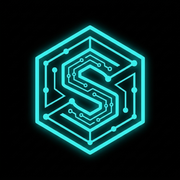
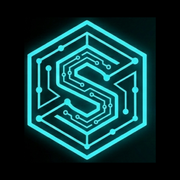
## SERTEX amblemi ana ikon & amblem olarak uygulandı ✅ (web + mobil)
Yüklediğiniz altıgen "S" amblemini banner'dan kare olarak kırptım (wordmark hariç), hem siyah zeminli ikon hem de şeffaf arka planlı "amblem işareti" ürettim.

**Web** (`frontend/public`): favicon.png/.ico, apple-touch-icon, logo192/512 (tarayıcı sekmesi + PWA/ana ekran ikonu) amblemle değiştirildi. Ayrıca **giriş ekranı** ve **açılış (boot) ekranına** amblem eklendi — ekran görüntüsüyle doğrulandı.

**Mobil** (`mobile/assets/images`): app icon (`icon.png`), Android adaptive-icon, web favicon amblemle; **splash** tam SERTEX banner'ı oldu; uygulama içi başlık (login + tüm sekmeler) artık amblemi gösteriyor — ekran görüntüsüyle doğrulandı.

⚠ Önemli notlar:
- Tarayıcı favicon'u sert cache'lenir → görmüyorsanız **hard refresh** (Ctrl+Shift+R).
- **Mobil app icon ve splash yalnızca gerçek iOS/Android build'de (Publish) tam yansır**; Expo Go/önizlemede eski ikon görünebilir.
- Değişiklikler preview'de; web canlı (sertex-ai.com) için **Deploy**, mobil için yeni **Publish** gerekir.

Testing agent kullanmadım; bu görsel/asset değişikliği olduğu için her iki yüzeyde screenshot ile doğruladım.

- Next Action Items:
  - **Yayına Al**: Yeni amblemin canlıda ve telefonda görünmesi için web'i Deploy edip mobil için yeni bir Publish/build al
  - **Gecikmiş Görevler**: Yöneticiye tüm geciken görevleri gösterip toplu hatırlatma gönderten bir panel ekle
  - **Süper Yönetici Notu**: Süreli super_admin verirken "neden/not" alanı ekle ki kim niçin yetkilendirildi kayda geçsin
[…]

diff --git a/mobile/src/components/HudHeader.tsx b/mobile/src/components/HudHeader.tsx
@@ -2,6 +2,7 @@
 // holographic sphere. A small glowing cyan orb keeps the brand feel without
 // any per-frame animation cost on device.
 
+import { Image } from "expo-image";
 import { StyleSheet, Text, View } from "react-native";
 
 import { colors, monoFont, spacing } from "@/src/theme/colors";
@@ -17,7 +18,12 @@ export const HudHeader = ({ subtitle, right }: Props) => {
       <View style={styles.left}>
         <View style={styles.orbWrap}>
           <View style={styles.orbGlow} />
-          <View style={styles.orb} />
+          <Image
+            source={require("../../assets/images/emblem-mark.png")}
+            style={styles.emblem}
+            contentFit="contain"
+            testID="brand-emblem"
+          />
         </View>
         <View>
           <Text style={styles.brand}>SERTEX</Text>
@@ -39,26 +45,22 @@ const styles = StyleSheet.create({
   },
   left: { flexDirection: "row", alignItems: "center", gap: spacing.md },
   orbWrap: {
-    width: 34,
-    height: 34,
+    width: 40,
+    height: 40,
     alignItems: "center",
     justifyContent: "center",
   },
   orbGlow: {
     position: "absolute",
-    width: 34,
-    height: 34,
-    borderRadius: 17,
+    width: 40,
+    height: 40,
+    borderRadius: 20,
     backgroundColor: colors.glow,
-    opacity: 0.55,
+    opacity: 0.35,
   },
-  orb: {
-    width: 18,
-    height: 18,
-    borderRadius: 9,
-    backgroundColor: colors.primary,
-    borderWidth: 2,
-    borderColor: "rgba(226, 241, 255, 0.6)",
+  emblem: {
+    width: 40,
+    height: 40,
   },
   brand: {
     color: colors.textPrimary,

diff --git a/frontend/src/components/LoginScreen.jsx b/frontend/src/components/LoginScreen.jsx
@@ -89,6 +89,12 @@ const LoginScreen = () => {
       >
         <div className="glass-panel corner-bracket p-6 relative">
           <div className="text-center mb-6">
+            <img
+              src="/emblem-mark.png"
+              alt="SERTEX"
+              data-testid="login-logo"
+              className="mx-auto mb-3 h-24 w-24 object-contain drop-shadow-[0_0_20px_rgba(0,240,255,0.55)]"
+            />
             <div className="display-text text-sertex-cyan neon-glow text-3xl tracking-[0.25em] font-bold">
               S.E.R.T.E.X
             </div>

diff --git a/frontend/public/index.html b/frontend/public/index.html
@@ -53,6 +53,7 @@
         <noscript>You need to enable JavaScript to run this app.</noscript>
         <div id="root">
             <div id="sertex-boot">
+                <img src="%PUBLIC_URL%/emblem-mark.png" alt="SERTEX" width="88" height="88" style="filter: drop-shadow(0 0 18px rgba(0,240,255,0.55)); margin-bottom: 4px;" />
                 <div class="title">S.E.R.T.E.X</div>
                 <div class="dot"></div>
                 <div class="sub">BAĞLANIYOR...</div>

diff --git a/memory/PRD.md b/memory/PRD.md
@@ -10,6 +10,13 @@ Tam liste: `/app/frontend/public/Sertex-Feature-Listesi.pdf` (üretici script: `
 
 ## ✅ Tamamlanan Fazlar
 
+### Marka: SERTEX Amblemi — Ana İkon & Amblem (2026-06 · fork) ✅
+Kullanıcı yeni SERTEX altıgen "S" devre amblemini yükledi (`sertex-logo.jpeg` banner); uygulamanın ana ikonu ve amblemi yapıldı.
+- Amblem banner'dan kare olarak kırpıldı (wordmark hariç, x≈470 boşluğuna kadar), siyah zeminli 1024 ikon + şeffaf `emblem-mark.png` (siyah→alfa) üretildi.
+- **Web** (`frontend/public`): `favicon.png`, `favicon.ico`, `apple-touch-icon.png`, `logo192.png`, `logo512.png` amblemle değiştirildi; `LoginScreen.jsx` giriş kartına ve `index.html` açılış (boot) ekranına şeffaf amblem eklendi (`login-logo`).
+- **Mobil** (`mobile/assets/images`): `icon.png` (1024), `adaptive-icon.png`, `favicon.png` amblemle; `splash-image.png` tam SERTEX banner'ı (kırpılmış); `HudHeader.tsx`'teki cyan orb şeffaf amblemle değiştirildi → login + tüm ana sekmelerde (`brand-emblem`) görünür.
+- **Test**: Web login + mobil header canlı screenshot ile doğrulandı. NOT: tarayıcı favicon'u sert cache'lenir (hard refresh gerekebilir); mobil app icon/splash yalnızca gerçek iOS/Android build'de (Publish) tam yansır. Canlı için Deploy gerekir.
+
 ### Hata Radarı — Çözümleme + Seviye Filtresi & Gruplama (2026-06 · fork) ✅
 Kullanıcı isteği: (1) bir hatayı "çözüldü" işaretleyip aktif listeden gizle (yalnızca aktif sorunlara odaklan); (2) seviyeye göre süz + en sık tekrar edenleri üstte grupla.
 - **Backend** (`routers/admin_router.py`): client_logs'a `resolved`/`resolved_at`/`resolved_by`. GET `/admin/client-logs` artık `status` (active[varsayılan]/resolved/all) + `level` (virgüllü) filtrelerini ve `active` sayacını döner — varsayılan aktif olduğu için çözülmüşler otomatik gizli (mobil ekran da bundan yararlanır). Yeni uçlar: `POST /admin/client-logs/{id}/resolve` (tekli), `POST /admin/client-logs/resolve-bulk {message}` (aynı mesajlı grubu toplu çöz/geri al).
